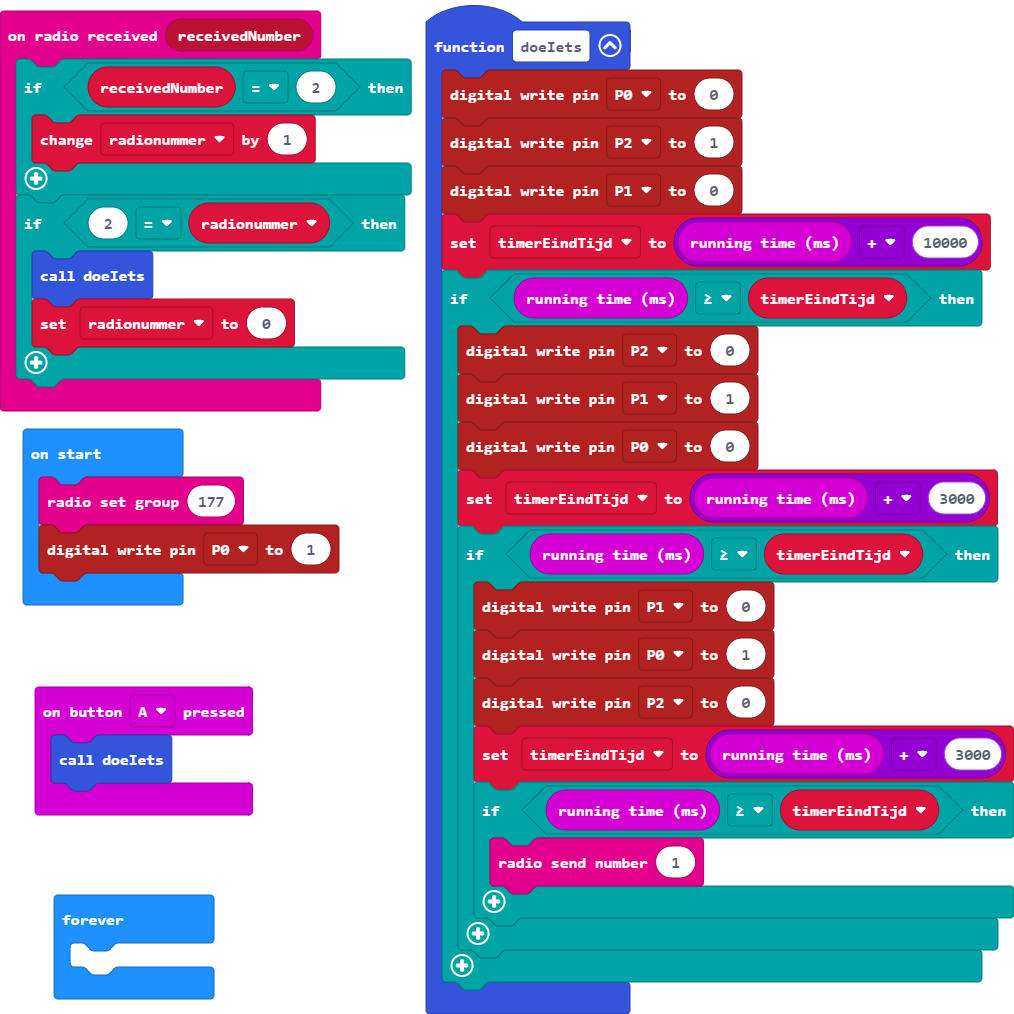
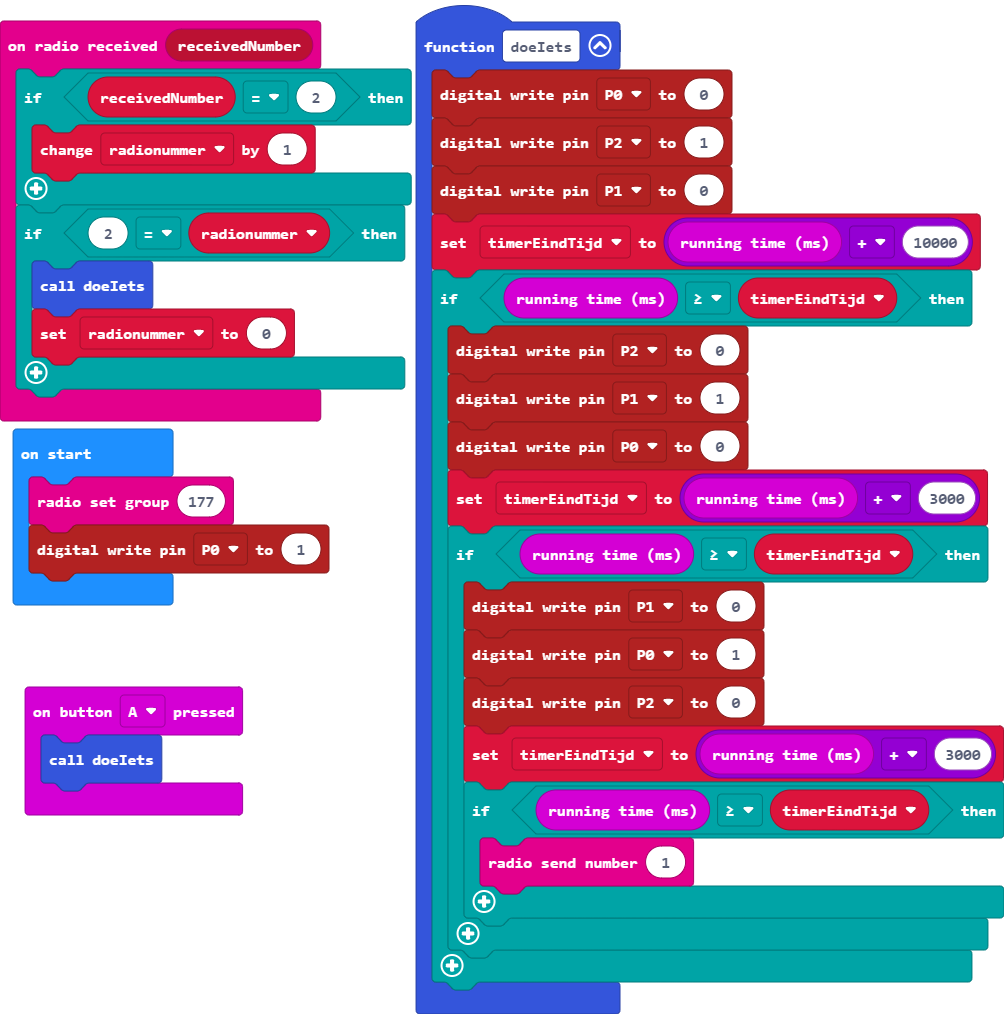
Remove unused function

diff --git a/main.ts b/main.ts
@@ -35,6 +35,3 @@ let timerEindTijd = 0
 let radionummer = 0
 radio.setGroup(177)
 pins.digitalWritePin(DigitalPin.P0, 1)
-basic.forever(function () {
-	
-})
